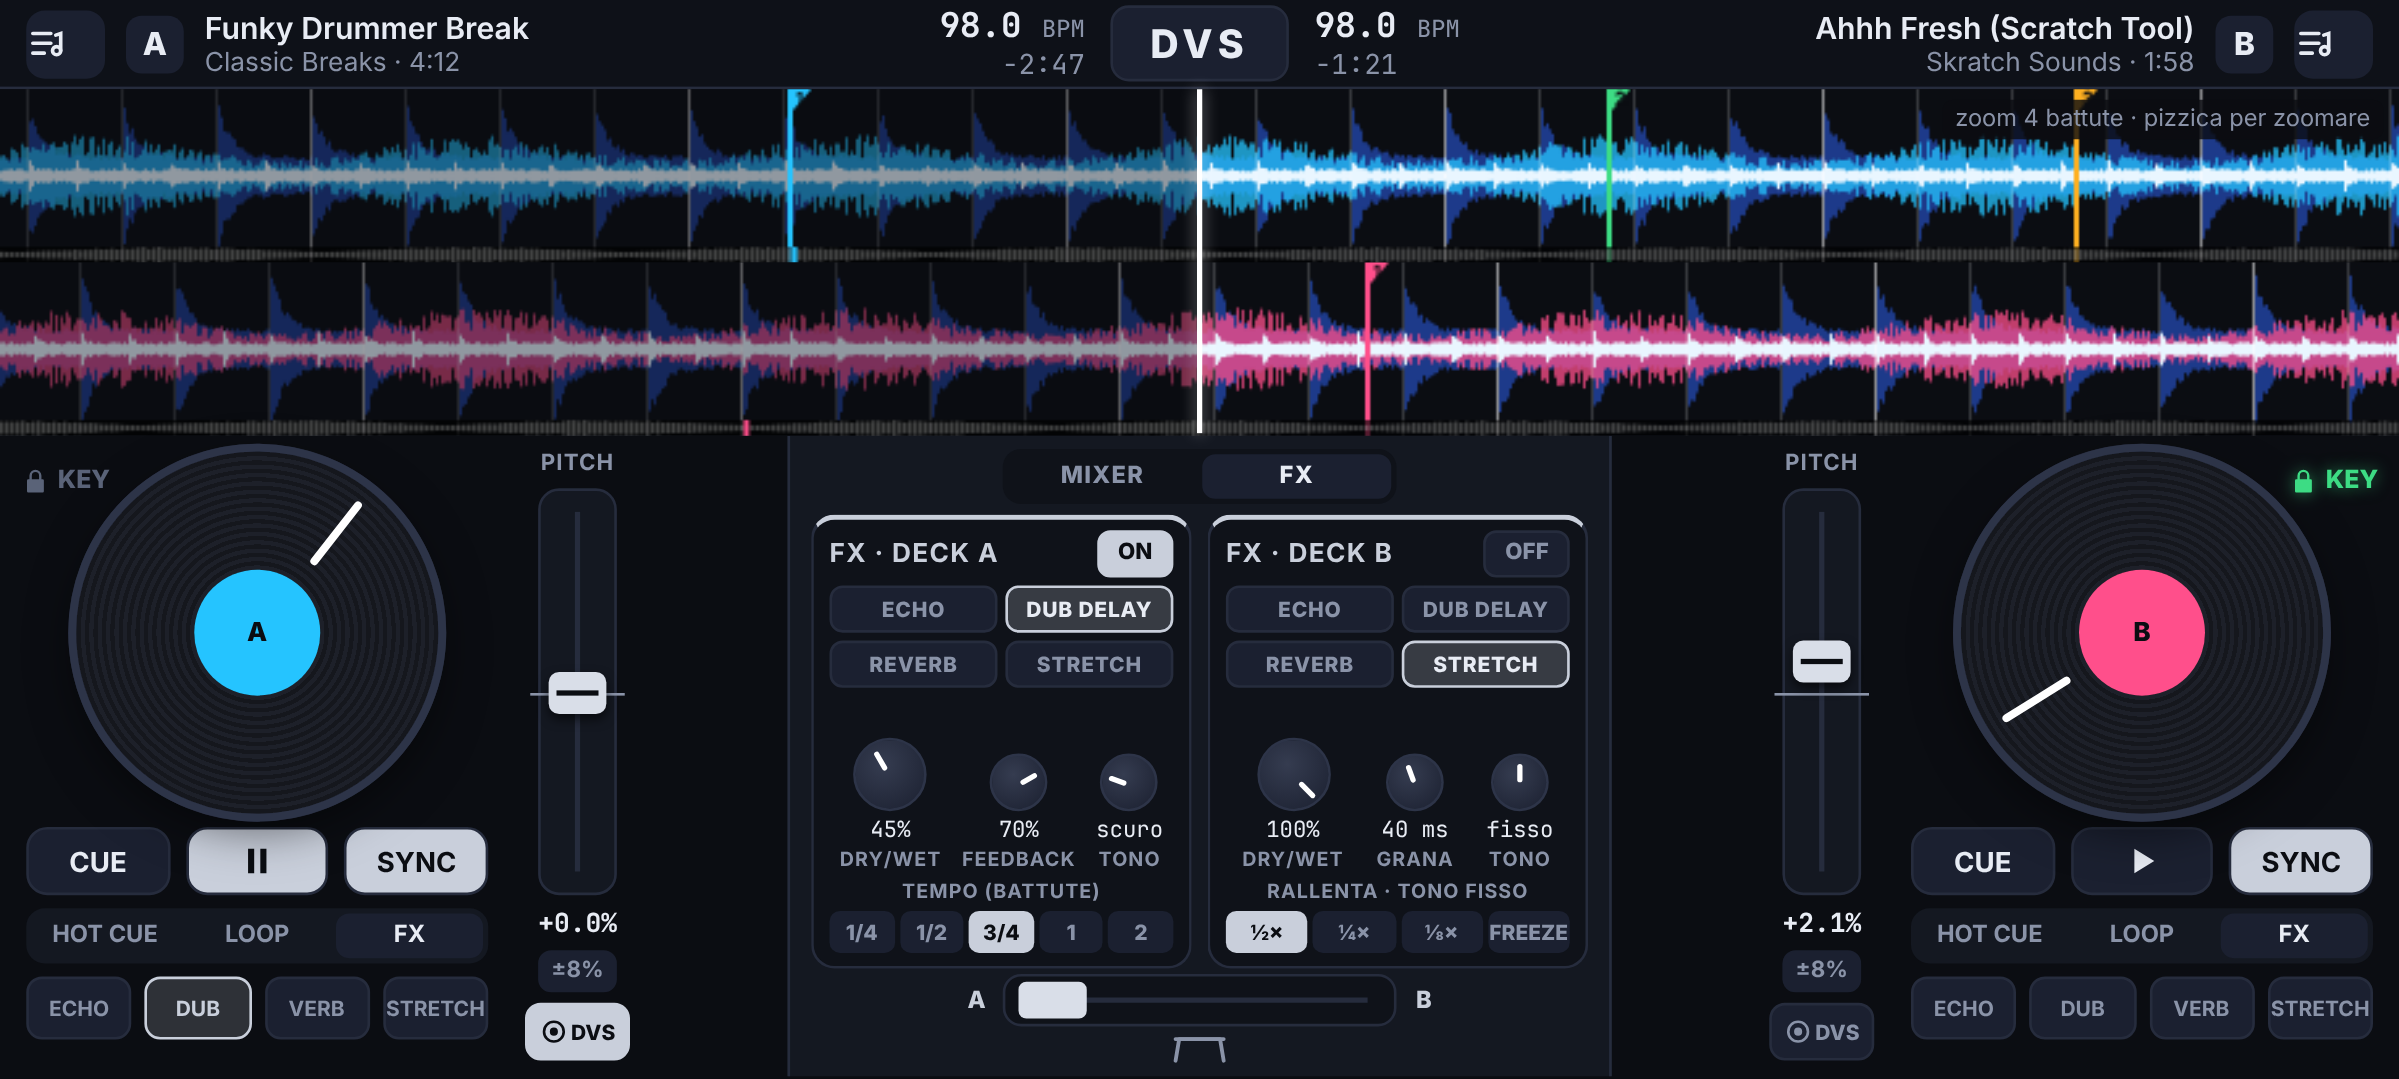
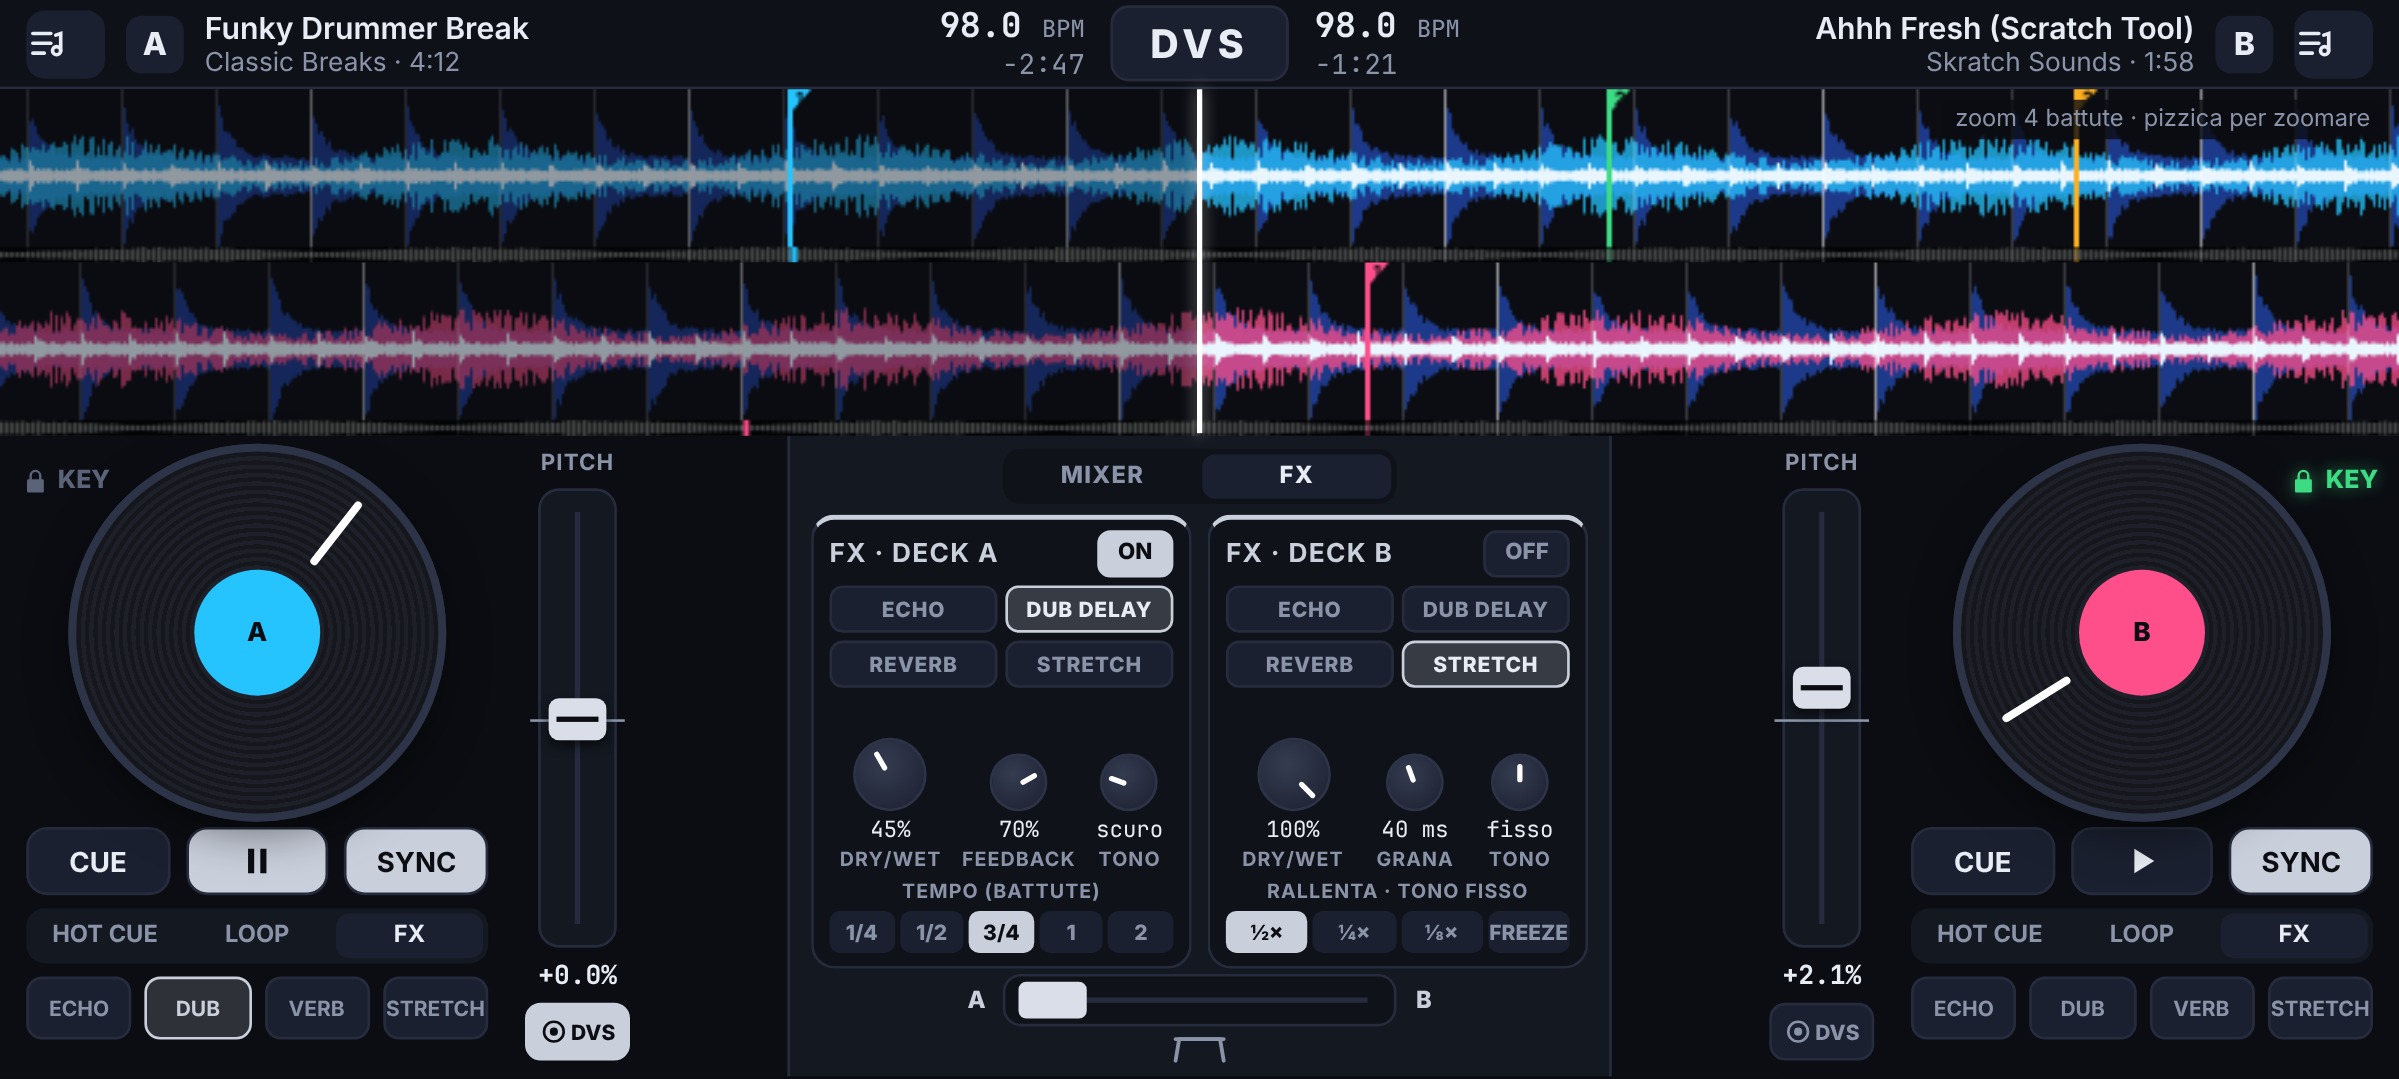
Bozze: tolta l'escursione del pitch dai deck (resta nelle Opzioni)
Claude-Session: https://claude.ai/code/session_01Q6837TbCDCCjM1wxVviTqv

diff --git a/design/bozze.html b/design/bozze.html
@@ -249,7 +249,7 @@ html,body{width:914px;height:411px;overflow:hidden;background:var(--bg);color:va
         <div class="tabs"><div class="tab on">HOT CUE</div><div class="tab">LOOP</div><div class="tab">FX</div></div>
         <div class="pads"><div class="pad"><span style="display:inline-block;width:5px;height:5px;border-radius:50%;background:#25c4ff;margin-right:4px;vertical-align:1px"></span>1</div><div class="pad"><span style="display:inline-block;width:5px;height:5px;border-radius:50%;background:#3ddc84;margin-right:4px;vertical-align:1px"></span>2</div><div class="pad"><span style="display:inline-block;width:5px;height:5px;border-radius:50%;background:#ffb020;margin-right:4px;vertical-align:1px"></span>3</div><div class="pad">4</div></div>
       </div>
-      <div class="pitch"><div class="lbl">PITCH</div><div class="vslider"><div class="mid"></div><div class="cap" style="top:calc(50% - 8px)"></div></div><div class="pv">+0.0%</div><div class="keylock">±8%</div><div class="klock on" style="background:#c9cfdb;border-color:#c9cfdb"><svg viewBox="0 0 24 24" fill="none" stroke="currentColor" stroke-width="2.4"><circle cx="12" cy="12" r="9"/><circle cx="12" cy="12" r="2.5" fill="currentColor"/></svg>DVS</div></div>
+      <div class="pitch"><div class="lbl">PITCH</div><div class="vslider"><div class="mid"></div><div class="cap" style="top:calc(50% - 8px)"></div></div><div class="pv">+0.0%</div><div class="klock on" style="background:#c9cfdb;border-color:#c9cfdb"><svg viewBox="0 0 24 24" fill="none" stroke="currentColor" stroke-width="2.4"><circle cx="12" cy="12" r="9"/><circle cx="12" cy="12" r="2.5" fill="currentColor"/></svg>DVS</div></div>
     </div>
 
     <div class="mixer">
@@ -291,7 +291,7 @@ html,body{width:914px;height:411px;overflow:hidden;background:var(--bg);color:va
         <div class="tabs"><div class="tab">HOT CUE</div><div class="tab on">LOOP</div><div class="tab">FX</div></div>
         <div class="pads"><div class="pad">1/2</div><div class="pad">1</div><div class="pad" style="background:#c9cfdb22;color:var(--txt);border-color:#c9cfdb">2</div><div class="pad">4</div></div>
       </div>
-      <div class="pitch"><div class="lbl">PITCH</div><div class="vslider"><div class="mid"></div><div class="cap" style="top:calc(50% - 20px)"></div></div><div class="pv">+2.1%</div><div class="keylock">±8%</div><div class="klock"><svg viewBox="0 0 24 24" fill="none" stroke="currentColor" stroke-width="2.4"><circle cx="12" cy="12" r="9"/><circle cx="12" cy="12" r="2.5" fill="currentColor"/></svg>DVS</div></div>
+      <div class="pitch"><div class="lbl">PITCH</div><div class="vslider"><div class="mid"></div><div class="cap" style="top:calc(50% - 20px)"></div></div><div class="pv">+2.1%</div><div class="klock"><svg viewBox="0 0 24 24" fill="none" stroke="currentColor" stroke-width="2.4"><circle cx="12" cy="12" r="9"/><circle cx="12" cy="12" r="2.5" fill="currentColor"/></svg>DVS</div></div>
     </div>
   </div>
 </div>

diff --git a/CLAUDE.md b/CLAUDE.md
@@ -33,8 +33,8 @@ L'app si chiama **DVS** (27/10/2026; prima "Djaaay"). Nel codice il package Kotl
   Al centro il nome **DVS**: toccandolo si aprono le **Opzioni** (nessun pulsante ingranaggio).
 - **Waveform alte** (2 strisce, A sopra B), puntina fissa al centro, griglia battute, bandierine hot cue,
   panoramica traccia sotto; pinch = zoom, trascinare = scratch (disattivabile).
-- Deck: disco touch (scratch), CUE / Play / SYNC, pad con tab HOT CUE · LOOP · FX; pitch verticale con valore,
-  escursione (±8/16/50) e tasto **DVS**. Tasto **KEY** (keylock) in alto a sinistra del disco A e in alto a destra del disco B:
+- Deck: disco touch (scratch), CUE / Play / SYNC, pad con tab HOT CUE · LOOP · FX; pitch verticale con valore
+  e tasto **DVS** (l'escursione ±8/16/50 si sceglie solo nelle Opzioni). Tasto **KEY** (keylock) in alto a sinistra del disco A e in alto a destra del disco B:
   senza riquadro, scritta+lucchetto grigi da spento, verdi illuminati da acceso.
 - **DVS per deck** (richiesta 27/10): un solo segnale timecode (un giradischi) può comandare il deck A, il B o tutti e due
   insieme: ogni deck con DVS acceso segue il timecode, con DVS spento si usa normalmente (touch/MIDI). Scelta manuale.
